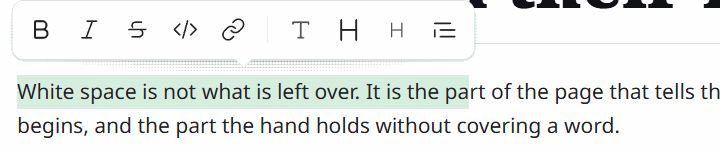
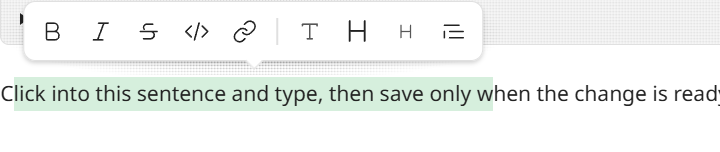
The driver can drag at the speed a hand makes a gesture

diff --git a/docs/02-development/06-screenshots.md b/docs/02-development/06-screenshots.md
@@ -29,7 +29,7 @@ Only the marked rows have been run as written. The rest are reconstructed from t
 
 | Picture | What it shows | How it is taken |
 | --- | --- | --- |
-| `block-gutter.png` | A block lifted out mid-drag, its neighbors closing the gap | **Run 11 August 2026.** `-Doc <vault>\docs\openmind.md -Unlocked -Steps 'move:660,600 hold:121,598,660,555'` — the move reveals the gutter handle, and the hold leaves the button down so the shot catches the block in flight |
+| `block-gutter.png` | A block lifted out mid-drag, its neighbors closing the gap | **Run 22 August 2026, 9:23pm.** `-Doc <vault>\docs\openmind.md -Unlocked -Steps 'move:660,600 hold:121,598,660,555'` — the move reveals the gutter handle, and the hold leaves the button down so the shot catches the block in flight |
 | `code-view.png` | A Markdown file as raw source, with the editor's minimap rail | **Run 11 August 2026.** `-Doc README.md -Unlocked -Steps 'click:700,1111 wait:3000'` |
 | `data.png` | A GitHub Actions workflow rendered as headed sections | **Run 11 August 2026.** `-Doc .github/workflows/release-windows.yml` |
 | `delete-confirm.png` | The confirmation over a file the reader asked to delete | reconstructed: a vault of throwaway documents, `rclick:` a file row, then Delete. The vault it was taken against is not in the repo |
@@ -39,7 +39,7 @@ Only the marked rows have been run as written. The rest are reconstructed from t
 | `file-actions.png` | The right-click menu on a file row in the library pane | **Run 11 August 2026.** `-Doc <vault>\docs\openmind.md -Vault <vault> -LibraryOpen -Steps 'rclick:127,309'` |
 | `file-associations.png` | Notes in Explorer wearing the leaf icon, the right-click menu open and Leaftext at the top of Open with | **Run 15 August 2026.** Taken by hand, like the install shots below: it is another program's window, and the capture script drives this one. Install the app so it registers the extensions, make a folder of plainly named `.md` files, open it in Explorer at medium icons, right-click one and **click** Open with — hovering does not open the submenu when the pointer is moved by a program rather than by a hand. Photograph the screen where the window is, not the window: a menu is its own window and does not come back in a shot of the one under it. Give the window room for the whole menu — about 1500x1080 — or the menu runs off the frame, and crop to the window's own edges |
 | `flowchart-editor.png` | The flowchart editor as a full-window sheet, canvas and text | **Run 11 August 2026.** `-Doc ../docs/tests/flowcharts.md -Unlocked -Steps 'move:660,430 click:1084,554 wait:4000'` — the move brings up the diagram's own toolbar, whose second button opens the editor |
-| `format-bar.png` | The format bar floating over a few selected words | `-Unlocked`, a `drag:` across words in a paragraph, cropped to 720x152 |
+| `format-bar.png` | The format bar floating over a few selected words | **Run 22 August 2026, 9:19pm.** `-Doc ../docs/tests/editing-screenshot.md -Unlocked -Steps 'drag:220,370,700,370' -Crop '213,276,720,152'` — the crop starts at the bar's own top edge, because the collapsed outline behind it otherwise shows a clipped marker above the bar |
 | `frontmatter-fields.png` | A note's fields as rows: text, date, checkbox and tags, with Add a field | reconstructed: a document whose front matter carries one of each kind, cropped to the block. The document is not in the repo |
 | `glossary-sheet.png` | A glossary entry open in a bottom sheet over the page | **Run 11 August 2026.** `-Doc <vault>\docs\openmind.md -Steps 'click:849,370 wait:2000'` — the click lands on an underlined term |
 | `github-sync.png` | A vault's settings panel: the repository it pushes to, Sync and Change repo, with the breadcrumb's sync button carrying a count | **Run 15 August 2026.** `-Doc <clone>\leaftext\app\README.md -Vault <clone> -LibraryOpen -Steps 'click:40,83 click:90,192 wait:15000 click:40,83 click:251,192 wait:4000 move:350,131 wait:600'`, where `<clone>` is any git clone with a GitHub remote and work that has not reached it — the count is what it has waiting, and a folder prepared for the shot would take the git writes `scripts/gate-git.mjs` refuses. The last move parks the pointer on the panel's own heading, because leaving it on the button that opened the panel photographs a row as selected. The panel stands through anything else on the machine taking the foreground, which is what once shut it between the click that opened it and the shot |

diff --git a/docs/02-development/02-building.md b/docs/02-development/02-building.md
@@ -216,7 +216,7 @@ Beyond `-Doc`, `-Width`, `-Height`, `-ThemeFamily` and `-ThemeMode`:
 | `-Favorites <files>` | Fills the home screen's [favorites](../01-features/02-navigation.md#favorites) column. Without one the screen draws the recent list alone |
 | `-Unlocked` | Lifts the [padlocks](../01-features/07-editing.md#the-padlock), for a picture of typing in the page or the source |
 | `-GraphScope <size>` | How much of the link graph the [graph view](../01-features/03-library.md#graph) draws: `small`, `medium`, `large` or `xl`. A big vault at `xl` is a hairball with no readable name in it |
-| `-Do <steps>` | Drives the window before the shot: `click:X,Y`, `rclick:X,Y`, `move:X,Y`, `drag:X1,Y1,X2,Y2`, `hold:…` (a drag caught mid-gesture), `scroll:X,Y,NOTCHES`, `type:text`, `key:{ESC}`, `wait:MS` |
+| `-Do <steps>` | Drives the window before the shot: `click:X,Y`, `rclick:X,Y`, `move:X,Y`, `drag:X1,Y1,X2,Y2`, `hold:…` (a drag caught mid-gesture), `scroll:X,Y,NOTCHES`, `type:text`, `key:{ESC}`, `wait:MS`. A drag or a hold takes two more numbers — `drag:X1,Y1,X2,Y2,MOVES,GAP` — for how many mouse moves to walk in and how many milliseconds apart, so a fast gesture can be reproduced; without them it walks 12 moves 25 ms apart, which is about thirty a second where a hand makes a hundred and twenty-five |
 | `-Crop "X,Y,W,H"` | Cuts the shot down to one control |
 
 `-Do` and `-Crop` coordinates are pixels in the captured image, so they are measured off a shot already taken at the same size and in the same state: take one plain picture, look at it, then aim. The floating toolbar in particular sits at different pixels with the library pane open and shut, because it centers on the page. Through `-File` a `-Do` array collapses at its commas, so several steps go in as one `-Steps 'click:1,2 wait:900'` string instead.
